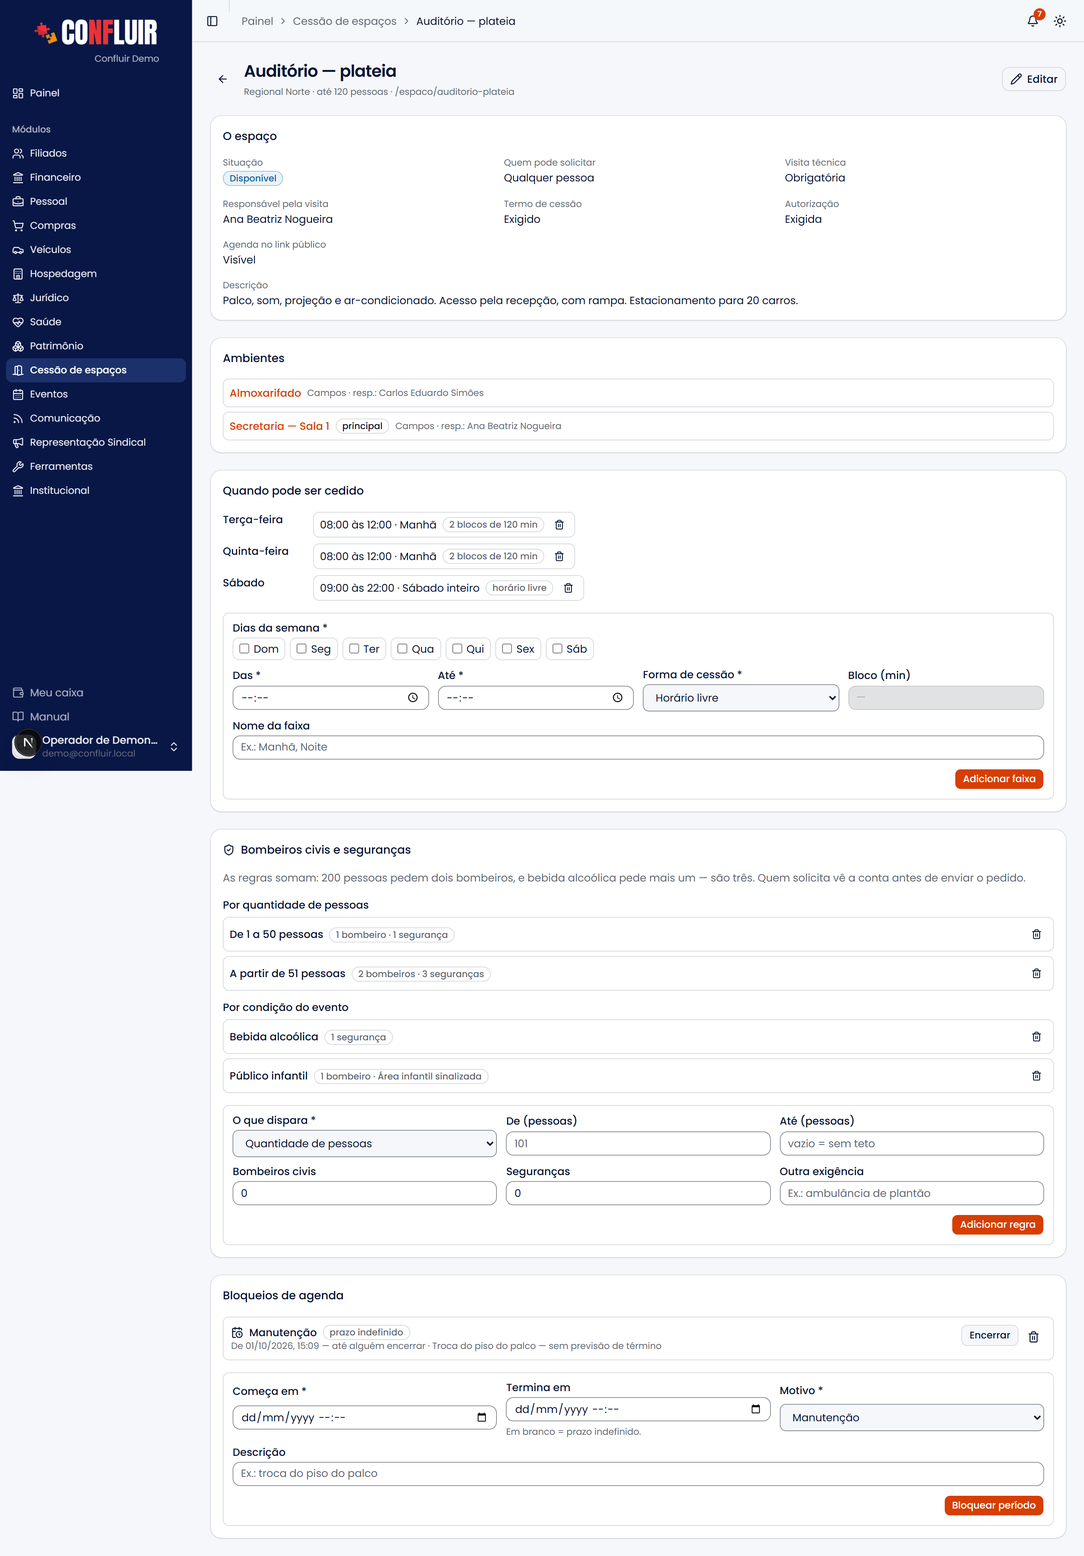
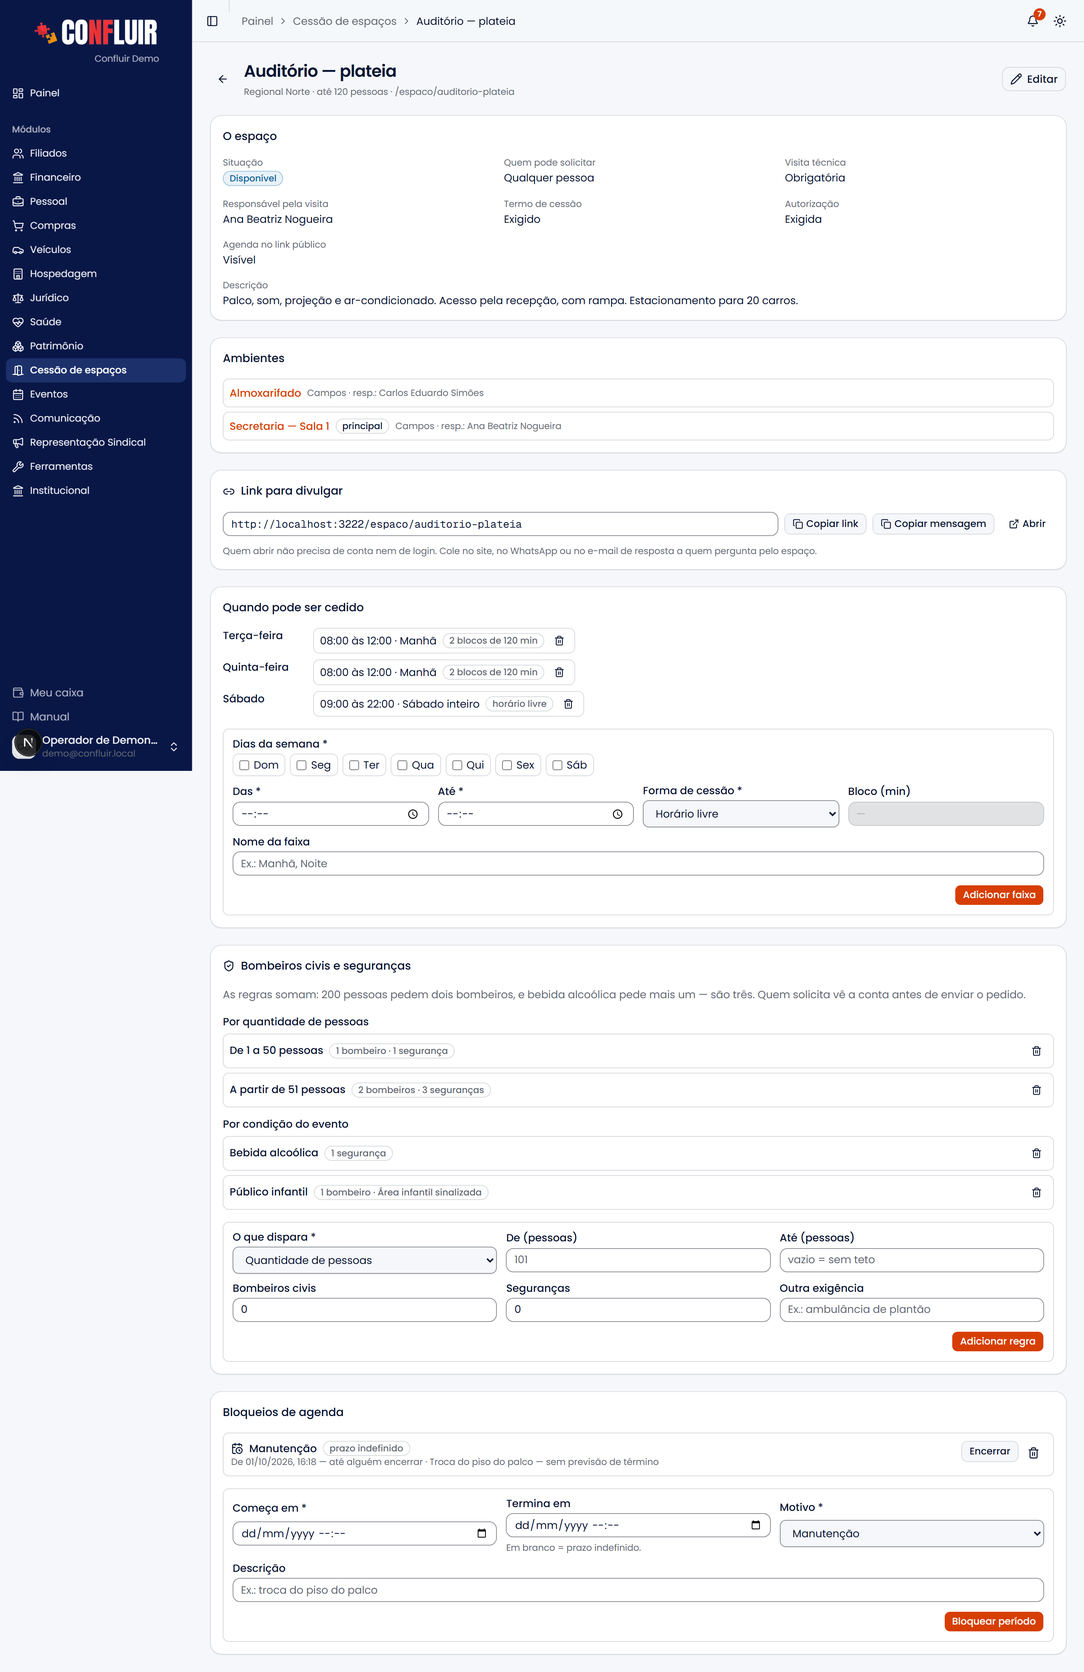
Cessão de espaços: manual acompanha os três ajustes
SQL rodado. E2E 18/18 nos ajustes e 9/9 no manual.

O manual dizia o OPOSTO do novo comportamento: "faixas do mesmo dia não
podem se sobrepor". Agora explica por que podem, e onde está a trava de
verdade — com o exemplo do sábado inteiro e do sábado à tarde.

Também: a seção do link para divulgar (com o aviso de que espaço
indisponível não tem página pública, que é como se prepara o cadastro
antes de divulgar) e a visita técnica descrita como obrigação de quem
recebe o espaço.

Provado no teste: ceder 14h–16h num sábado risca na agenda pública TANTO
o bloco de 9h–22h quanto o de 13h–18h.

diff --git a/src/lib/ajuda/base-conhecimento.ts b/src/lib/ajuda/base-conhecimento.ts
@@ -27,17 +27,17 @@ export const BASE_AJUDA: ArtigoBase[] = [
   {
     "area": "espacos",
     "slug": "index",
-    "texto": "A entidade cede auditório, salão, teatro e área de convivência para\ntrabalhadores, entidades parceiras e, às vezes, terceiros. Este artigo trata do\ncadastro: o que pode ser cedido, quando, e com que regras. O pedido, a\nanálise e o termo têm artigos próprios.\n\n Cessão de espaços \n\n Espaço não é o mesmo que ambiente\n\nOs ambientes da entidade já estão cadastrados em Patrimônio › Recintos:\nauditório, pátio, teatro, cozinha, hall. O espaço cedível é outra coisa —\né o que a pessoa pede, e quase nunca é um ambiente só. Quem pega o teatro leva\njunto o hall e a sala de projeção; a área gourmet vem com a cozinha.\n\n \n \nUm espaço, vários ambientes: \n No cadastro, marque todos os ambientes que a cessão ocupa. Não é\n burocracia: é assim que o sistema sabe que ceder um espaço impede o outro.\n \n \nUm ambiente, vários espaços: \n O mesmo teatro pode ser oferecido como &quot;Teatro — plateia&quot; e\n &quot;Teatro — mesas&quot;, com lotações diferentes. São dois espaços que\n dividem o mesmo ambiente, e a página avisa quais vão conflitar.\n \n \n\nA lotação é do espaço: \n Teatro + hall não comporta a soma das partes, e a mesma sala muda de lotação\n conforme o arranjo — plateia, mesas ou de pé. Por isso a lotação é informada\n no espaço, e não herdada do ambiente. É ela que vai definir quantos bombeiros\n civis e seguranças a cessão exige.\n \n\n Quando um ambiente não pode ser escolhido\n\nSó entram no espaço os ambientes com o cadastro completo: nome, sede e\ndescrição física. Os incompletos aparecem numa lista à parte, apagados,\ndizendo o que falta e com o atalho para completar em Patrimônio.\n\nPor que não some da lista: \n Esconder faria você procurar o Teatro, não achar e abrir um chamado. Ele\n aparece — com o motivo à vista.\n \n\n As regras da cessão\n\nCada espaço decide o que exige, e isso comanda a esteira da solicitação:\n\n \n \nQuem pode solicitar: \n Qualquer pessoa, público interno (funcionários e diretores) ou\n somente filiados.\n \n \nVisita técnica: \n Obrigatória, facultativa ou dispensada. O responsável vem\n sugerido do ambiente principal, e pode ser trocado por qualquer funcionário\n ou diretor — inclusive em cada cessão.\n \n \nTermo e autorização: \n Se o espaço exige termo de cessão e se passa por autorização\n (a avaliação política) antes de confirmar.\n \n \nAgenda no link público: \n Ligada, quem acessa o link do espaço vê a ocupação. Desligue quando a\n agenda daquele espaço não deve ficar à vista.\n \n \n\n A agenda: faixas por dia da semana\n\nCada faixa diz um dia, um horário e a forma de cessão:\n\n- Horário livre — quem solicita escolhe início e fim dentro da faixa.\n- Blocos fixos — a faixa é dividida em blocos de duração igual (dois blocos\n de 2 h entre 8 h e 12 h, por exemplo), e a pessoa escolhe um bloco.\n\nDá para marcar vários dias de uma vez: marcando terça e quinta, nascem duas\nfaixas iguais. Terça de manhã pode ser por bloco e terça à noite livre — são\nduas faixas.\n\nFaixas do mesmo dia não podem se sobrepor: \n O sistema recusa cadastrar 11 h–14 h numa terça que já tem 8 h–12 h. Exclua a\n faixa existente e refaça, ou ajuste o horário.\n \n\n \n\n Bloqueios de agenda\n\nUm bloqueio tira o espaço de circulação num período — manutenção, agenda\nprioritária ou outro motivo.\n\nBloqueio sem data para acabar: \n Deixe o término em branco quando não se sabe quando acaba: a obra que\n ainda não tem prazo, o espaço reservado para uma pauta em aberto. O bloqueio\n vale até alguém clicar em Encerrar — e fica no histórico, com a data em\n que terminou.\n \n\n Bombeiros civis e seguranças\n\nCada espaço tem suas regras, e elas somam: 200 pessoas pedem dois bombeiros\ne bebida alcoólica pede mais um segurança — o evento precisa dos dois.\n\n \n \nPor quantidade de pessoas: \n Faixas — de 1 a 50, de 51 a 200, a partir de 201 — cada uma com quantos\n bombeiros e seguranças exige. As faixas não podem se cruzar: o sistema\n recusa cadastrar 30–80 quando já existe 1–50.\n \n \nPor condição do evento: \n Público infantil, idoso ou com mobilidade reduzida, bebida alcoólica e\n evento de possível estresse emocional (assembleia, debate). Cada uma\n acrescenta ao que a faixa já pediu.\n \n \nExigência que não é gente: \n O campo Outra exigência entra na conta como texto: ambulância de\n plantão, rampa, brinquedoteca sinalizada.\n \n \n\n Erros comuns\n\n- &quot;O espaço não aparece para solicitar.&quot; Confira se ele está\n disponível e se tem ao menos uma faixa de horário — sem faixa, não há\n quando ceder.\n- &quot;Marquei um ambiente e outro espaço parou de aceitar pedido.&quot; É\n o esperado: dois espaços que dividem ambiente não podem ser cedidos ao mesmo\n tempo. A página lista quais são.\n- &quot;O Teatro não está na lista de ambientes.&quot; Falta dado no\n cadastro dele — abra a lista de ambientes bloqueados, veja o que falta e\n complete em Patrimônio › Recintos.\n- &quot;Bloqueei por engano.&quot; Encerrar guarda o histórico; excluir\n apaga. Use encerrar quando o bloqueio existiu de verdade."
+    "texto": "A entidade cede auditório, salão, teatro e área de convivência para\ntrabalhadores, entidades parceiras e, às vezes, terceiros. Este artigo trata do\ncadastro: o que pode ser cedido, quando, e com que regras. O pedido, a\nanálise e o termo têm artigos próprios.\n\n Cessão de espaços \n\n Espaço não é o mesmo que ambiente\n\nOs ambientes da entidade já estão cadastrados em Patrimônio › Recintos:\nauditório, pátio, teatro, cozinha, hall. O espaço cedível é outra coisa —\né o que a pessoa pede, e quase nunca é um ambiente só. Quem pega o teatro leva\njunto o hall e a sala de projeção; a área gourmet vem com a cozinha.\n\n \n \nUm espaço, vários ambientes: \n No cadastro, marque todos os ambientes que a cessão ocupa. Não é\n burocracia: é assim que o sistema sabe que ceder um espaço impede o outro.\n \n \nUm ambiente, vários espaços: \n O mesmo teatro pode ser oferecido como &quot;Teatro — plateia&quot; e\n &quot;Teatro — mesas&quot;, com lotações diferentes. São dois espaços que\n dividem o mesmo ambiente, e a página avisa quais vão conflitar.\n \n \n\nA lotação é do espaço: \n Teatro + hall não comporta a soma das partes, e a mesma sala muda de lotação\n conforme o arranjo — plateia, mesas ou de pé. Por isso a lotação é informada\n no espaço, e não herdada do ambiente. É ela que vai definir quantos bombeiros\n civis e seguranças a cessão exige.\n \n\n Quando um ambiente não pode ser escolhido\n\nSó entram no espaço os ambientes com o cadastro completo: nome, sede e\ndescrição física. Os incompletos aparecem numa lista à parte, apagados,\ndizendo o que falta e com o atalho para completar em Patrimônio.\n\nPor que não some da lista: \n Esconder faria você procurar o Teatro, não achar e abrir um chamado. Ele\n aparece — com o motivo à vista.\n \n\n As regras da cessão\n\nCada espaço decide o que exige, e isso comanda a esteira da solicitação:\n\n \n \nQuem pode solicitar: \n Qualquer pessoa, público interno (funcionários e diretores) ou\n somente filiados.\n \n \nVisita técnica: \n Obrigatória, facultativa ou dispensada. O responsável vem\n sugerido do ambiente principal, e pode ser trocado por qualquer funcionário\n ou diretor — inclusive em cada cessão.\n \n \nTermo e autorização: \n Se o espaço exige termo de cessão e se passa por autorização\n (a avaliação política) antes de confirmar.\n \n \nAgenda no link público: \n Ligada, quem acessa o link do espaço vê a ocupação. Desligue quando a\n agenda daquele espaço não deve ficar à vista.\n \n \n\n A agenda: faixas por dia da semana\n\nCada faixa diz um dia, um horário e a forma de cessão:\n\n- Horário livre — quem solicita escolhe início e fim dentro da faixa.\n- Blocos fixos — a faixa é dividida em blocos de duração igual (dois blocos\n de 2 h entre 8 h e 12 h, por exemplo), e a pessoa escolhe um bloco.\n\nDá para marcar vários dias de uma vez: marcando terça e quinta, nascem duas\nfaixas iguais. Terça de manhã pode ser por bloco e terça à noite livre — são\nduas faixas.\n\nFaixas podem se sobrepor — de propósito: \n &quot;Sábado inteiro, das 9 h às 22 h&quot; e &quot;sábado à tarde, das 13 h\n às 18 h&quot; são duas ofertas do mesmo espaço, e quem pede escolhe uma.\n Por isso o cadastro aceita as duas.\n\n Quem impede a dupla-marcação é a agenda: ceder qualquer uma das duas\n ocupa o período e derruba a outra. Um evento das 14 h às 16 h risca tanto o\n bloco do dia inteiro quanto o da tarde.\n\n O que o sistema recusa é a faixa idêntica no mesmo dia — isso é engano de\n digitação, não oferta nova.\n \n\n O link para divulgar\n\nCada espaço tem um endereço público próprio, e ele fica no cartão Link para\ndivulgar, na página do espaço: o endereço inteiro, um botão para copiar e uma\nmensagem pronta para colar no WhatsApp ou responder a quem pergunta.\n\nEnquanto você monta o cadastro: \n Espaço indisponível não tem página pública — o link responde &quot;não\n encontrado&quot;. É assim que se prepara um espaço com calma antes de\n divulgar. O cartão avisa quando é esse o caso, e também quando falta horário.\n \n\n \n\n Bloqueios de agenda\n\nUm bloqueio tira o espaço de circulação num período — manutenção, agenda\nprioritária ou outro motivo.\n\nBloqueio sem data para acabar: \n Deixe o término em branco quando não se sabe quando acaba: a obra que\n ainda não tem prazo, o espaço reservado para uma pauta em aberto. O bloqueio\n vale até alguém clicar em Encerrar — e fica no histórico, com a data em\n que terminou.\n \n\n Bombeiros civis e seguranças\n\nCada espaço tem suas regras, e elas somam: 200 pessoas pedem dois bombeiros\ne bebida alcoólica pede mais um segurança — o evento precisa dos dois.\n\n \n \nPor quantidade de pessoas: \n Faixas — de 1 a 50, de 51 a 200, a partir de 201 — cada uma com quantos\n bombeiros e seguranças exige. As faixas não podem se cruzar: o sistema\n recusa cadastrar 30–80 quando já existe 1–50.\n \n \nPor condição do evento: \n Público infantil, idoso ou com mobilidade reduzida, bebida alcoólica e\n evento de possível estresse emocional (assembleia, debate). Cada uma\n acrescenta ao que a faixa já pediu.\n \n \nExigência que não é gente: \n O campo Outra exigência entra na conta como texto: ambulância de\n plantão, rampa, brinquedoteca sinalizada.\n \n \n\n Erros comuns\n\n- &quot;O espaço não aparece para solicitar.&quot; Confira se ele está\n disponível e se tem ao menos uma faixa de horário — sem faixa, não há\n quando ceder.\n- &quot;Marquei um ambiente e outro espaço parou de aceitar pedido.&quot; É\n o esperado: dois espaços que dividem ambiente não podem ser cedidos ao mesmo\n tempo. A página lista quais são.\n- &quot;O Teatro não está na lista de ambientes.&quot; Falta dado no\n cadastro dele — abra a lista de ambientes bloqueados, veja o que falta e\n complete em Patrimônio › Recintos.\n- &quot;Bloqueei por engano.&quot; Encerrar guarda o histórico; excluir\n apaga. Use encerrar quando o bloqueio existiu de verdade."
   },
   {
     "area": "espacos",
     "slug": "pedidos",
-    "texto": "Depois que o pedido chega, a equipe assume e leva pela esteira. Cada pedido\npassa só pelos passos que o seu espaço exige.\n\n Cessão de espaços \n\nEm Pedidos de uso fica a fila. Cada pedido passa só pelos passos que o\nseu espaço exige: espaço com visita dispensada não abre o passo de visita,\nespaço sem autorização vai direto ao custeio.\n\n \n \nAssumir: \n Marca seu nome no pedido e o leva para análise. É como a equipe sabe quem\n está cuidando de quê.\n \n \nVisita técnica: \n Agende a data e escolha o responsável — o solicitante é avisado por e-mail.\n Depois da visita, registre o parecer: é ele que diz o que foi combinado\n e o que a pessoa precisa providenciar. Visita facultativa pode ser\n dispensada.\n \n \nAutorização: \n A avaliação política, com permissão própria — quem organiza a agenda não\n é necessariamente quem decide se a entidade cede o espaço. Negar exige\n motivo, e o motivo vai para o solicitante.\n \n \nCusteio: \n Os itens que o solicitante paga (limpeza, som, segurança), somados\n automaticamente. Marcar como pago libera o passo.\n \n \nConfirmar: \n Só aparece quando não falta nada. Enquanto faltar, a tela diz exatamente o\n quê.\n \n \n\n \n\nTodo passo que muda a vida de quem pediu, avisa quem pediu: \n Visita agendada, cessão confirmada, pedido recusado ou cancelado disparam\n e-mail para o solicitante. Recusa silenciosa vira telefonema.\n \n\nO histórico responde “por quê”: \n Cada passo fica registrado com quem fez e quando, incluindo os pareceres. É o\n que responde, meses depois, por que um pedido foi recusado.\n \n\n Erros comuns\n\n- &quot;Não consigo confirmar a cessão.&quot; O cartão de fechamento lista o\n que falta — visita não realizada, autorização pendente ou custeio não pago.\n- &quot;Não aparece o botão de autorizar.&quot; É uma permissão à parte\n ( Cessão — autorizar ), pedida em\n Institucional → Usuários e permissões.\n- &quot;Recusei sem querer.&quot; Recusa e cancelamento encerram o pedido e\n avisam o solicitante. Se foi engano, peça um pedido novo pelo link público.\n- &quot;O solicitante não soube da visita.&quot; Agendar dispara e-mail. Se\n ele não recebeu, confira o endereço no cartão de contato."
+    "texto": "Depois que o pedido chega, a equipe assume e leva pela esteira. Cada pedido\npassa só pelos passos que o seu espaço exige.\n\n Cessão de espaços \n\nEm Pedidos de uso fica a fila. Cada pedido passa só pelos passos que o\nseu espaço exige: espaço com visita dispensada não abre o passo de visita,\nespaço sem autorização vai direto ao custeio.\n\n \n \nAssumir: \n Marca seu nome no pedido e o leva para análise. É como a equipe sabe quem\n está cuidando de quê.\n \n \nVisita técnica: \n A visita é obrigação de quem recebe o espaço: é ele que vem, vê o lugar\n e acerta o que for preciso. Agende a data e escolha quem acompanha pela\n entidade; o solicitante recebe um e-mail dizendo que a presença dele é\n necessária.\n\n Depois da visita, registre quem compareceu pelo solicitante e o que\n ficou acertado — acessos, energia, som, limpeza, o que couber. É esse\n registro que evita discussão no dia do evento. Visita facultativa pode ser\n dispensada.\n \n \nAutorização: \n A avaliação política, com permissão própria — quem organiza a agenda não\n é necessariamente quem decide se a entidade cede o espaço. Negar exige\n motivo, e o motivo vai para o solicitante.\n \n \nCusteio: \n Os itens que o solicitante paga (limpeza, som, segurança), somados\n automaticamente. Marcar como pago libera o passo.\n \n \nConfirmar: \n Só aparece quando não falta nada. Enquanto faltar, a tela diz exatamente o\n quê.\n \n \n\n \n\nTodo passo que muda a vida de quem pediu, avisa quem pediu: \n Visita agendada, cessão confirmada, pedido recusado ou cancelado disparam\n e-mail para o solicitante. Recusa silenciosa vira telefonema.\n \n\nO histórico responde “por quê”: \n Cada passo fica registrado com quem fez e quando, incluindo os pareceres. É o\n que responde, meses depois, por que um pedido foi recusado.\n \n\n Erros comuns\n\n- &quot;Não consigo confirmar a cessão.&quot; O cartão de fechamento lista o\n que falta — visita não realizada, autorização pendente ou custeio não pago.\n- &quot;Não aparece o botão de autorizar.&quot; É uma permissão à parte\n ( Cessão — autorizar ), pedida em\n Institucional → Usuários e permissões.\n- &quot;Recusei sem querer.&quot; Recusa e cancelamento encerram o pedido e\n avisam o solicitante. Se foi engano, peça um pedido novo pelo link público.\n- &quot;O solicitante não soube da visita.&quot; Agendar dispara e-mail. Se\n ele não recebeu, confira o endereço no cartão de contato.\n- &quot;Não consigo registrar a visita.&quot; É preciso informar quem\n compareceu pelo solicitante: a visita é obrigação de quem recebe o espaço,\n e o nome de quem veio fica no registro."
   },
   {
     "area": "espacos",
     "slug": "publico",
-    "texto": "Cada espaço tem um endereço próprio que a entidade divulga — o trabalhador,\na entidade parceira ou o terceiro pede por ali, sem login e sem conta.\n\n Cessão de espaços \n\n O link público\n\nCada espaço tem um endereço próprio — /espaco/&lt;nome-do-espaço&gt; —, que a\nentidade divulga. Ele mostra a descrição, os horários de cessão e, quando o\nespaço permite, a agenda dos próximos 21 dias, com o que já está ocupado\nriscado.\n\nQuem solicita responde sobre o público e o evento, e vê na hora o que aquilo\nvai exigir, com a conta aberta: de onde veio cada bombeiro e cada segurança.\nExigência sem explicação vira discussão no dia do evento.\n\n \n\n \n \nQuem pode pedir: \n Qualquer pessoa preenche direto. Somente filiados pede o CPF antes,\n conferido na base — quem não está com a filiação ativa não passa. Público\n interno exige estar logado no sistema.\n \n \nO código por e-mail: \n Depois de enviar, chega um código de 6 dígitos. Enquanto ele não for\n digitado, o pedido fica em rascunho e não aparece para a equipe — um\n e-mail digitado errado não vira trabalho nem cessão para a pessoa errada.\n \n \nO número do pedido: \n Confirmado o código, o pedido ganha número sequencial e entra na fila.\n \n \n\nO que já foi pedido não muda quando a regra muda: \n As exigências são copiadas para o pedido no momento em que ele é feito. A\n entidade pode rever as faixas amanhã: quem pediu hoje continua com o que foi\n combinado. Num documento que fala de segurança de pessoas, isso não pode\n mudar sozinho.\n \n\nMontagem e desmontagem ocupam o espaço: \n Quem pede informa quando precisa entrar para montar e até quando vai ocupar\n para desmontar. É esse período inteiro que conta para o choque com outro\n pedido — e o choque considera também os espaços que dividem ambiente.\n \n\n A esteira do pedido\n\n Erros comuns\n\n- &quot;A pessoa diz que enviou o pedido, mas ele não aparece.&quot; Falta\n ela digitar o código que foi para o e-mail. Sem isso o pedido fica em\n rascunho. Confira o endereço que ela informou.\n- &quot;O público estimado não aceita o número.&quot; O campo é limitado\n pela lotação do espaço. Se o evento é maior, o espaço é outro.\n- &quot;O link do espaço não abre.&quot; Espaço indisponível ou sem\n faixa de horário não tem página pública — é assim que se prepara um cadastro\n sem divulgá-lo antes da hora.\n- &quot;Um filiado não consegue passar do CPF.&quot; O espaço cedido só a\n filiados exige filiação ativa. Confira a condição em Filiados."
+    "texto": "Cada espaço tem um endereço próprio que a entidade divulga — o trabalhador,\na entidade parceira ou o terceiro pede por ali, sem login e sem conta.\n\n Cessão de espaços \n\n O link público\n\nCada espaço tem um endereço próprio — /espaco/&lt;nome-do-espaço&gt; —, que a\nentidade divulga. Ele mostra a descrição, os horários de cessão e, quando o\nespaço permite, a agenda dos próximos 21 dias, com o que já está ocupado\nriscado.\n\nQuem solicita responde sobre o público e o evento, e vê na hora o que aquilo\nvai exigir, com a conta aberta: de onde veio cada bombeiro e cada segurança.\nExigência sem explicação vira discussão no dia do evento.\n\n \n\n \n \nQuem pode pedir: \n Qualquer pessoa preenche direto. Somente filiados pede o CPF antes,\n conferido na base — quem não está com a filiação ativa não passa. Público\n interno exige estar logado no sistema.\n \n \nO código por e-mail: \n Depois de enviar, chega um código de 6 dígitos. Enquanto ele não for\n digitado, o pedido fica em rascunho e não aparece para a equipe — um\n e-mail digitado errado não vira trabalho nem cessão para a pessoa errada.\n \n \nO número do pedido: \n Confirmado o código, o pedido ganha número sequencial e entra na fila.\n \n \n\nO que já foi pedido não muda quando a regra muda: \n As exigências são copiadas para o pedido no momento em que ele é feito. A\n entidade pode rever as faixas amanhã: quem pediu hoje continua com o que foi\n combinado. Num documento que fala de segurança de pessoas, isso não pode\n mudar sozinho.\n \n\nMontagem e desmontagem ocupam o espaço: \n Quem pede informa quando precisa entrar para montar e até quando vai ocupar\n para desmontar. É esse período inteiro que conta para o choque com outro\n pedido — e o choque considera também os espaços que dividem ambiente.\n \n\n A esteira do pedido\n\n Erros comuns\n\n- &quot;A pessoa diz que enviou o pedido, mas ele não aparece.&quot; Falta\n ela digitar o código que foi para o e-mail. Sem isso o pedido fica em\n rascunho. Confira o endereço que ela informou.\n- &quot;O público estimado não aceita o número.&quot; O campo é limitado\n pela lotação do espaço. Se o evento é maior, o espaço é outro.\n- &quot;Onde fica o link para divulgar?&quot; No cartão Link para\n divulgar, na página do espaço, com botão de copiar e mensagem pronta.\n- &quot;O link do espaço não abre.&quot; Espaço indisponível ou sem\n faixa de horário não tem página pública — é assim que se prepara um cadastro\n sem divulgá-lo antes da hora.\n- &quot;Um filiado não consegue passar do CPF.&quot; O espaço cedido só a\n filiados exige filiação ativa. Confira a condição em Filiados."
   },
   {
     "area": "espacos",
